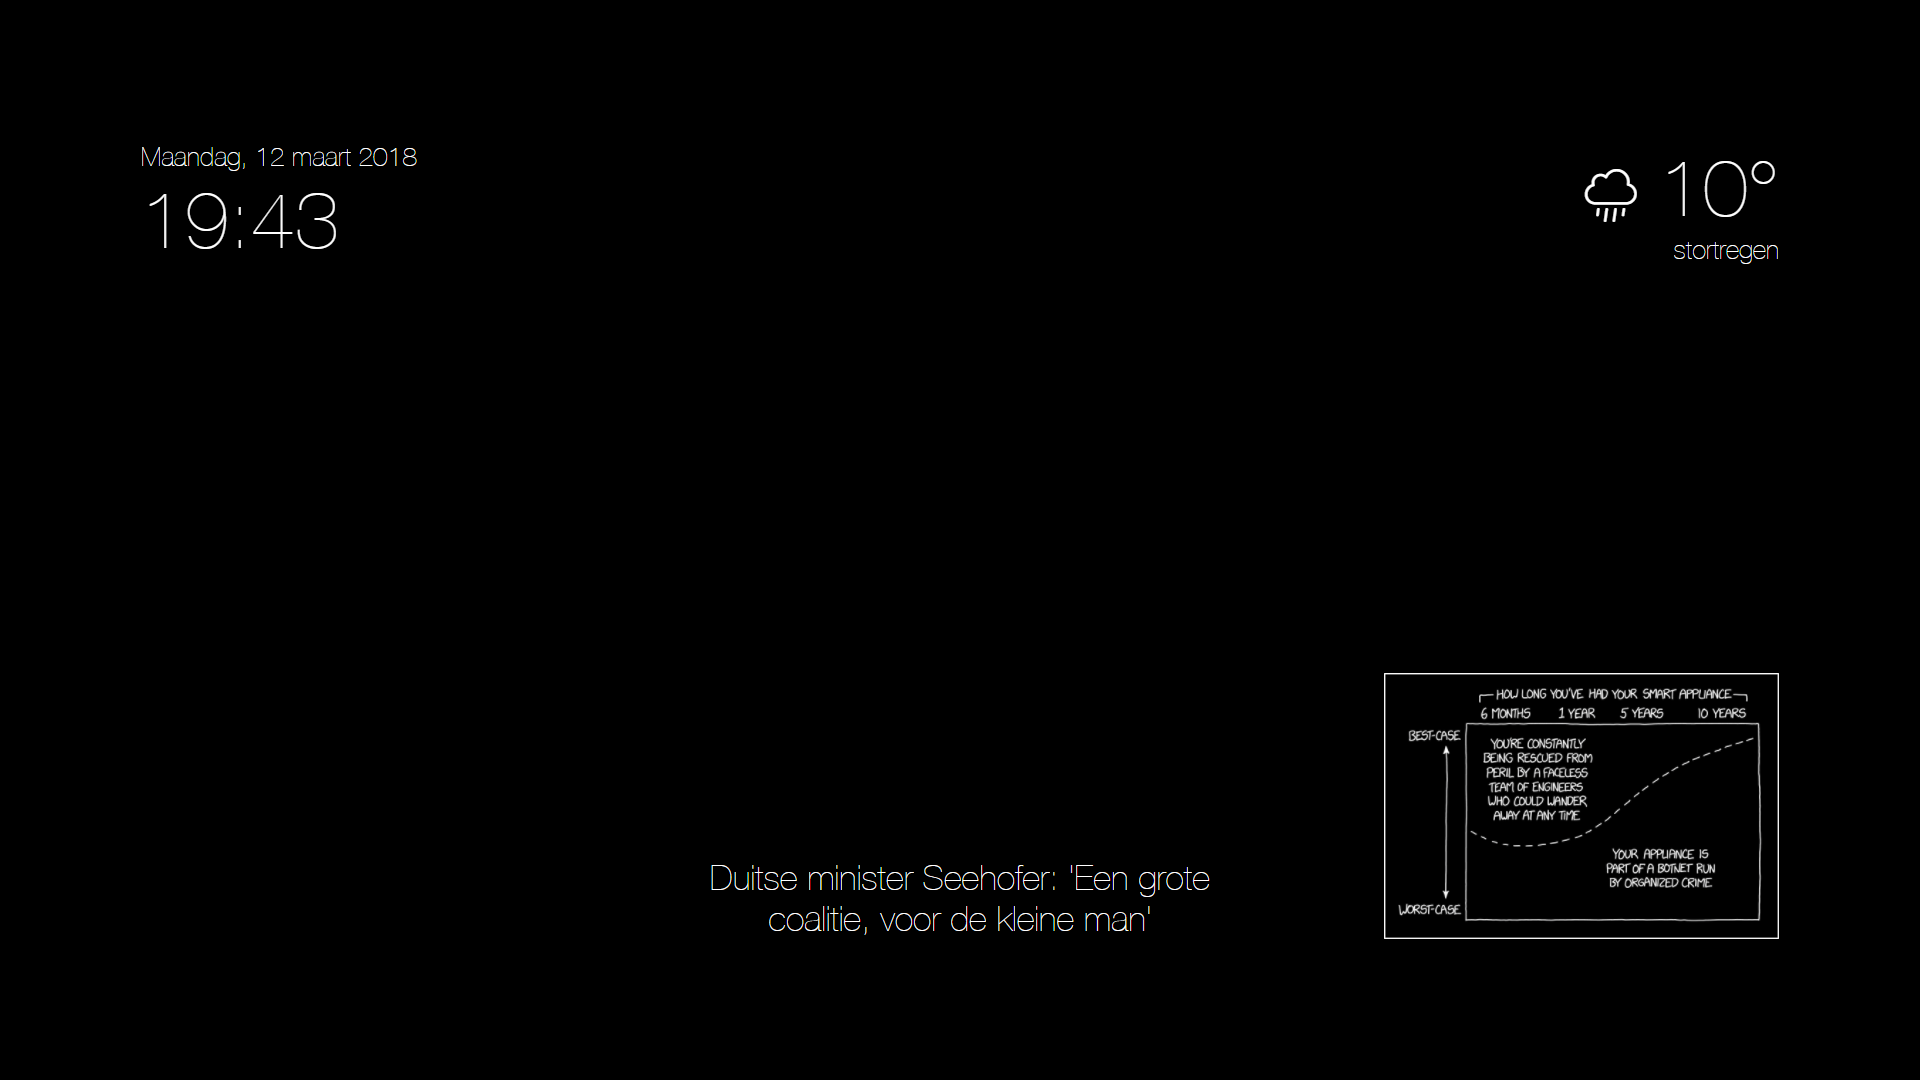
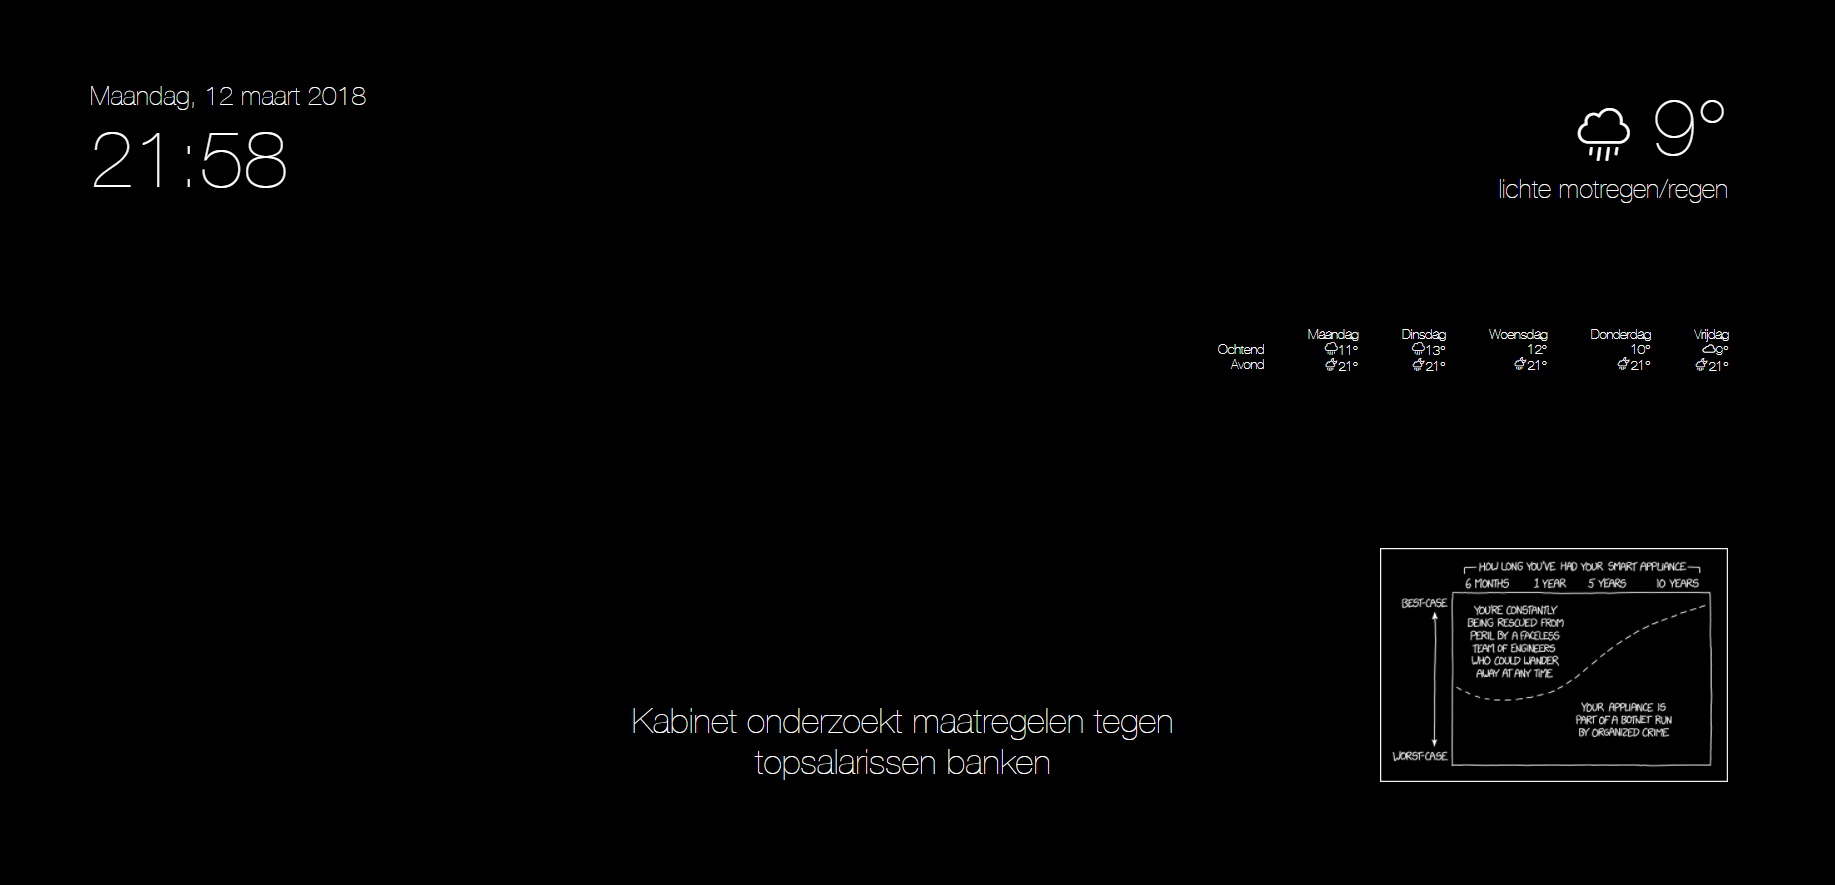
Setup of weather forecast module

diff --git a/public/js/app.js b/public/js/app.js
@@ -2,6 +2,44 @@
 const weekdayToStr = ['Zondag', 'Maandag', 'Dinsdag', 'Woensdag', 'Donderdag', 'Vrijdag', 'Zaterdag'];
 const monthToStr = ['januari', 'februari', 'maart', 'april', 'mei', 'juni', 'juli', 'augustus', 'september', 'oktober', 'november', 'december'];
 
+var weatherForecast =
+{
+    template: 
+        '<div class="weatherforecast-container">'+
+        '   <div> <ol> <li>&nbsp;</li> <li>Ochtend</li> <li>Avond</li> </ol> </div>'+
+        '   <div> <ol> <li>{{days[0].weekday}}</li> <li v-for="forecast in days[0].forecasts"><span> <i class="owi" v-bind:class="forecast.icon"></i>{{ forecast.temp }}&deg;</span> </li> </ol> </div>'+
+        '   <div> <ol> <li>{{days[1].weekday}}</li> <li v-for="forecast in days[1].forecasts"><span> <i class="owi" v-bind:class="forecast.icon"></i>{{ forecast.temp }}&deg;</span> </li> </ol> </div>'+
+        '   <div> <ol> <li>{{days[2].weekday}}</li> <li v-for="forecast in days[2].forecasts"><span> <i class="owi" v-bind:class="forecast.icon"></i>{{ forecast.temp }}&deg;</span> </li> </ol> </div>'+
+        '   <div> <ol> <li>{{days[3].weekday}}</li> <li v-for="forecast in days[3].forecasts"><span> <i class="owi" v-bind:class="forecast.icon"></i>{{ forecast.temp }}&deg;</span> </li> </ol> </div>'+
+        '   <div> <ol> <li>{{days[4].weekday}}</li> <li v-for="forecast in days[4].forecasts"><span> <i class="owi" v-bind:class="forecast.icon"></i>{{ forecast.temp }}&deg;</span> </li> </ol> </div>'+
+        '</div>',
+    data: function() {
+        return {
+            days: [
+                { weekday: 'Maandag', forecasts: [ { icon: 'owi-09n', temp: '11', time: 'Ochtend' },{ icon: 'owi-10n', temp: '21', time: 'Avond' } ] },
+                { weekday: 'Dinsdag', forecasts: [ { icon: 'owi-09n', temp: '13', time: 'Ochtend' },{ icon: 'owi-10n', temp: '21', time: 'Avond' } ] },
+                { weekday: 'Woensdag', forecasts: [ { icon: 'owi-08n', temp: '12', time: 'Ochtend' },{ icon: 'owi-10n', temp: '21', time: 'Avond' } ] },
+                { weekday: 'Donderdag', forecasts: [ { icon: 'owi-06n', temp: '10', time: 'Ochtend' },{ icon: 'owi-10n', temp: '21', time: 'Avond' } ] },
+                { weekday: 'Vrijdag', forecasts: [ { icon: 'owi-03n', temp: '9', time: 'Ochtend' },{ icon: 'owi-10n', temp: '21', time: 'Avond' } ] }
+            ]
+        }
+    },
+    mounted: function() {
+        this.update();
+    },
+    methods: {
+        update: function() {
+            const self = this;
+            interval(10 * 60 * 1000, function() {
+                axios.get('/getWeatherForecast')
+                .then(function(response){
+                    
+                });
+            });
+        }
+    }    
+};
+
 var weatherToday =  
 {
     template: '<div class="weathertoday"><i class="owi" v-bind:class="icon"></i> <span>{{ temp }}</span>  <div class="description">{{ description }}</div></div>',
@@ -25,7 +63,7 @@ var weatherToday =
     methods: {
         update: function() {
             const self = this;
-            interval(60 * 1000 * 60, function() {
+            interval(10 * 60 * 1000, function() {
                 axios.get('/getWeatherToday')
                 .then(function(response){
                     self.temp = 
@@ -148,6 +186,7 @@ var app = new Vue({
     },
     components: {
         'weather-today': weatherToday,
+        'weather-forecast': weatherForecast,
         'current-time': currentTime,
         'greeting': greeting,
         'headlines': headlines,

diff --git a/server/weatherforecast.js b/server/weatherforecast.js
@@ -1,0 +1,34 @@
+const request = require('request');
+
+var weatherTodayResult = null;
+var latestWeatherUpdate = Date();
+
+exports.get = function(req, res) {
+
+    var elapsedSinceLatestWeatherUpdate = new Date(Date() - latestWeatherUpdate);
+
+    if (weatherTodayResult != null || elapsedSinceLatestWeatherUpdate.getMinutes() > 10) {
+        var responseBody = JSON.stringify(weatherTodayResult);
+        res.send(responseBody);
+        return;
+    }
+
+
+    request('http://api.openweathermap.org/data/2.5/forecast?q=Olland,NL&units=metric&lang=nl&APPID=af4e90c5fa4b97bc975f49656739adaf', 
+    function(error, response, body){
+        
+        var jsonBody;
+        try{
+            jsonBody = JSON.parse(body);
+        } catch (ex) {
+            res.send("");
+        }
+
+        console.log("getWeatherForecast request for " + jsonBody.city.name);
+
+        weatherTodayResult = jsonBody.list;
+        res.send(JSON.stringify(weatherTodayResult));
+    });
+}
+
+//api.openweathermap.org/data/2.5/forecast?q={city name},{country code}

diff --git a/server/app.js b/server/app.js
@@ -3,11 +3,13 @@ const http = require('http');
 const app = express();
 
 const weathertoday = require('./weathertoday');
+const weatherforecast = require('./weatherforecast');
 const headlines = require('./headlines');
 const xkcd = require('./xkcd');
 
 app.use(express.static('public'));
 app.get('/getWeatherToday', weathertoday.get);
+app.get('/getWeatherForecast', weatherforecast.get);
 app.get('/getHeadlines', headlines.get);
 app.get('/getXkcd', xkcd.get);
 

diff --git a/public/css/general.css b/public/css/general.css
@@ -15,7 +15,22 @@
     height: 100%;
     grid-auto-rows: 1fr 1fr 1fr;
     grid-template-columns: 1fr 1fr 1fr;
+}
 
+.weatherforecast-container
+{
+    display: grid;
+    width: 100%;
+    height: 100%;
+    grid-auto-rows: 1fr;
+    grid-template-columns: 1fr 1fr 1fr 1fr 1fr 1fr;
+    font-size: 12px;
+}
+
+.weatherforecast-container ol li
+{
+    list-style: none;
+    text-align: right;
 }
 
 body

diff --git a/public/index.html b/public/index.html
@@ -20,7 +20,7 @@
 
             <div></div>                
             <greeting></greeting>
-            <div></div>
+            <weather-forecast></weather-forecast>
 
             <div></div>                
             <headlines></headlines>
